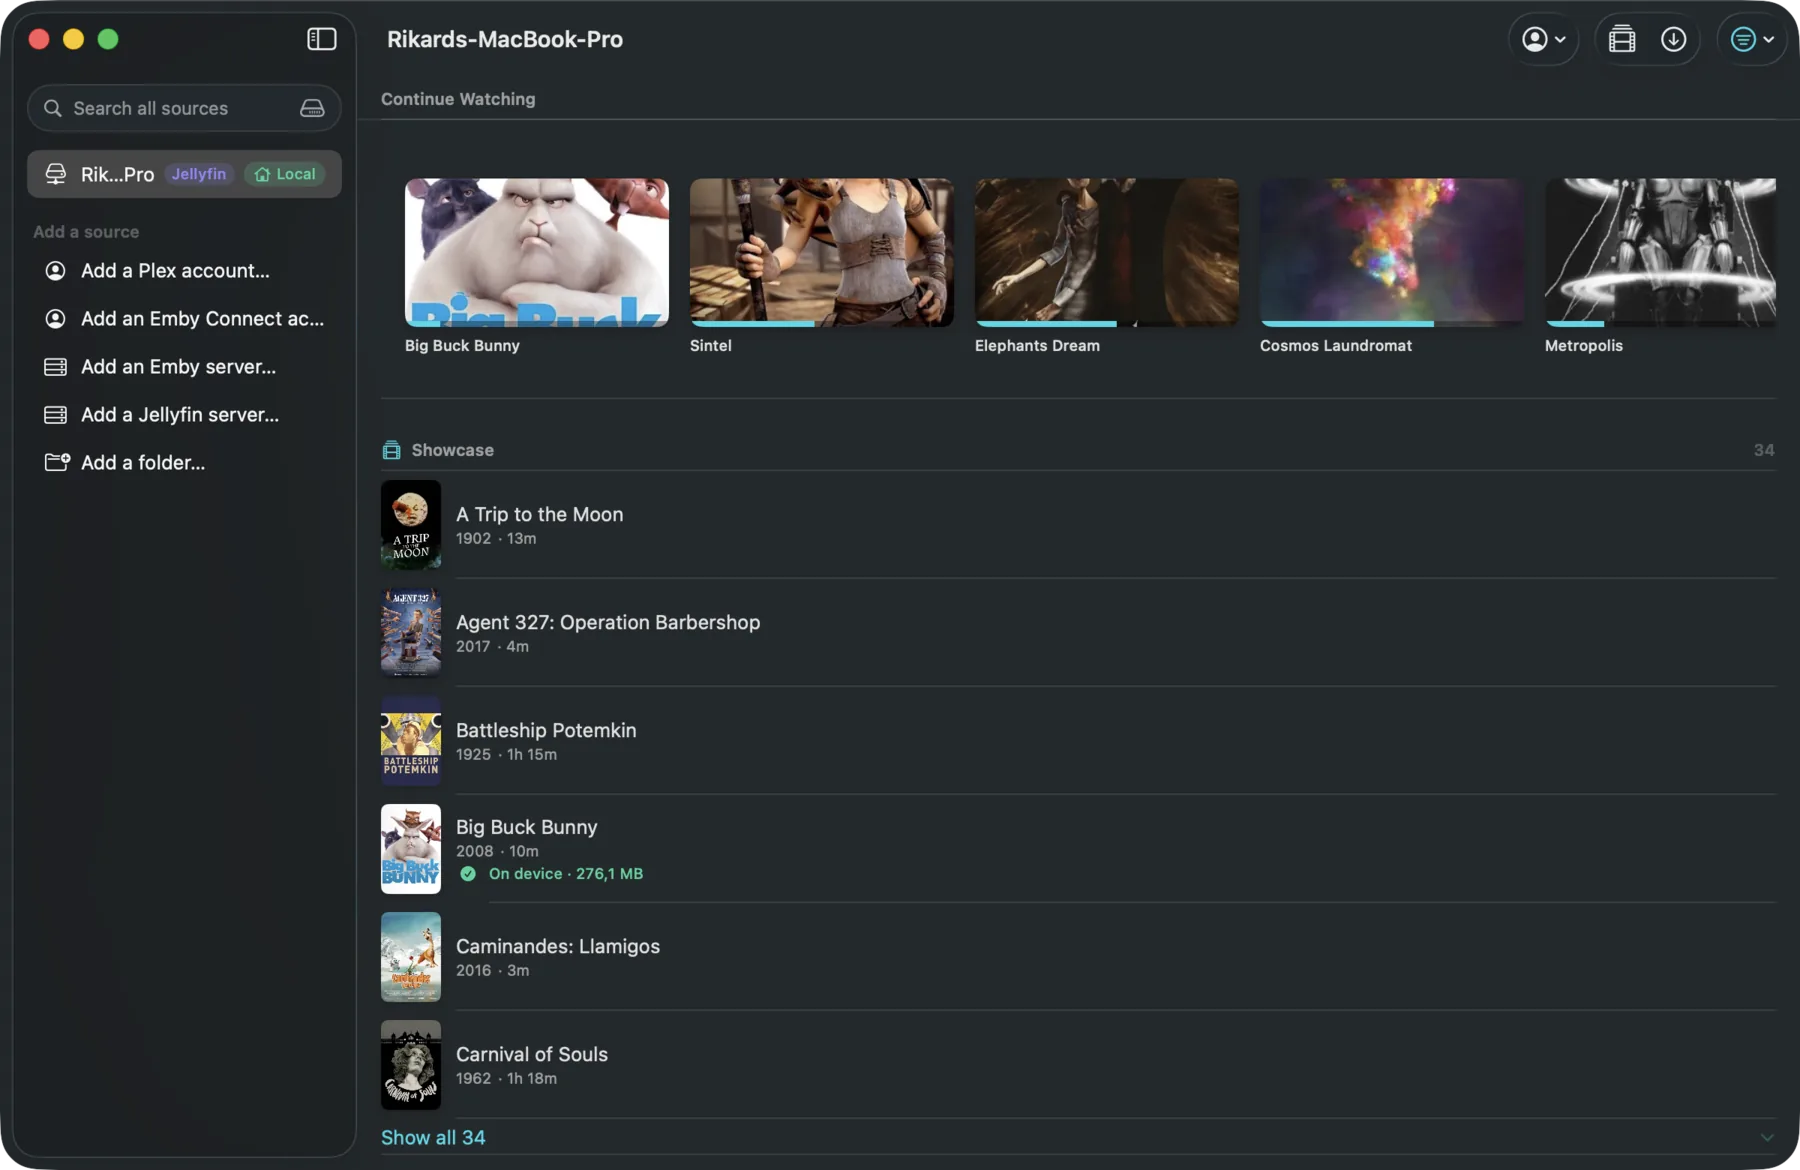
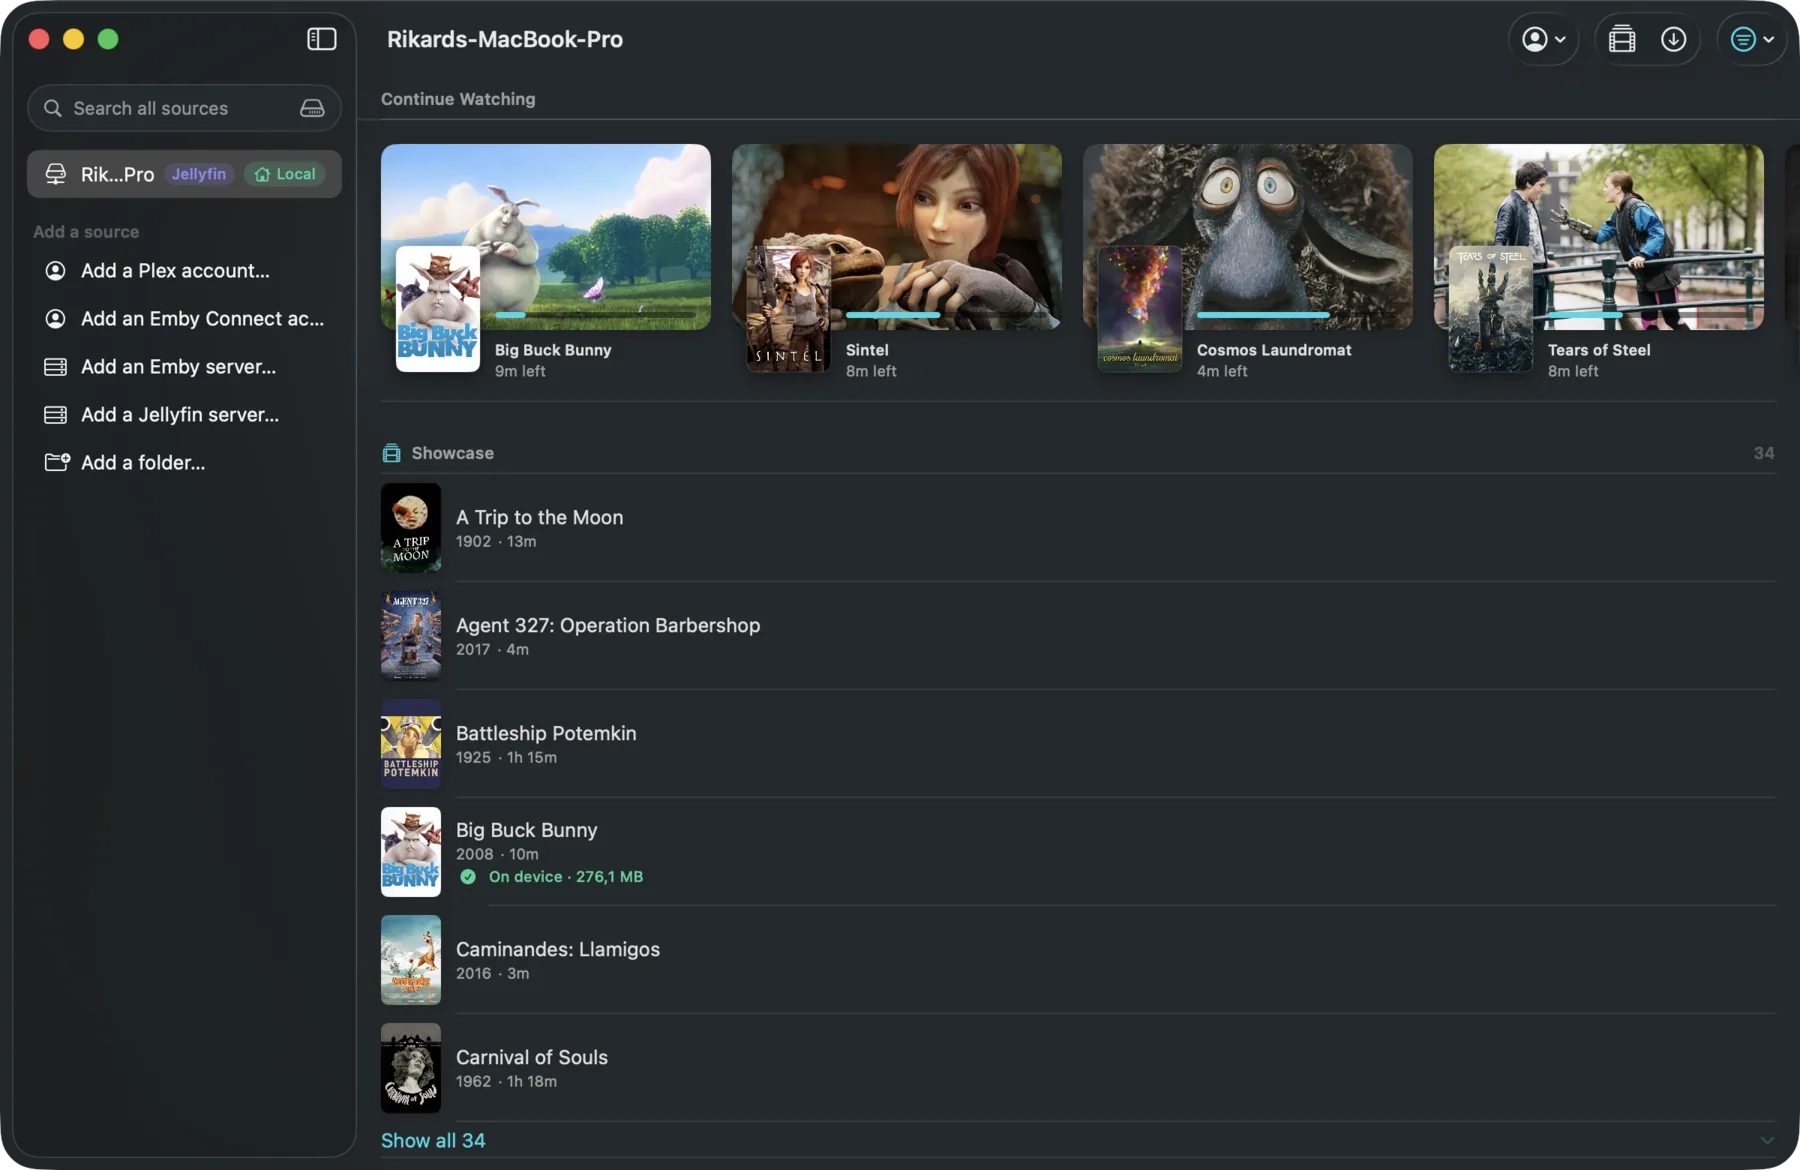
Site shows the new Continue Watching cards and the Stream sheet over Sprite Fright

Changed region(s): [[0.1867, 0.1231, 0.9956, 0.3385], [0.1867, 0.3692, 0.4356, 0.9846]]

diff --git a/index.html b/index.html
@@ -50,7 +50,7 @@
   </div>
 
   <div class="stage">
-    <img class="window" src="/img/hero-mac.webp" alt="Portage on a Mac: the server in the sidebar and a Continue Watching row of six films above the library" width="1800" height="1170">
+    <img class="window" src="/img/hero-mac.webp" alt="Portage on a Mac: the server in the sidebar and a Continue Watching row above the library" width="1800" height="1170">
     <div class="device iphone">
       <img src="/img/hero-iphone.webp" alt="Portage on iPhone: Continue Watching and the library" width="760" height="1551">
     </div>
@@ -75,7 +75,7 @@
       </div>
       <div class="backlit stream-phone">
         <div class="device iphone">
-          <img src="/img/stream-sheet.webp" alt="The Stream sheet on iPhone over Elephants Dream: Play the original file is on, with Video format, Resolution and Audio format below" width="760" height="1551" loading="lazy">
+          <img src="/img/stream-sheet.webp" alt="The Stream sheet on iPhone over Sprite Fright: Play the original file is on, with Video format, Resolution and Audio format below" width="760" height="1551" loading="lazy">
           <div class="screen"><svg class="arrows" viewBox="0 0 1320 2868" aria-hidden="true"><path d="M520 2600Q710 2146 1032 1774M1032 1774L1022 1819M1032 1774L988 1790"/></svg><span class="note" style="left:39.39%;top:90.66%">The original file,<br>or a size you pick</span></div>
         </div>
       </div>
@@ -164,7 +164,7 @@
       </div>
       <div class="backlit">
         <div class="device ipad">
-          <img src="/img/library-ipad.webp" alt="Portage on iPad in landscape: the server in the sidebar and a Continue Watching row of six films" width="1600" height="1227" loading="lazy">
+          <img src="/img/library-ipad.webp" alt="Portage on iPad in landscape: the server in the sidebar and a Continue Watching row" width="1600" height="1227" loading="lazy">
         </div>
       </div>
     </div>
